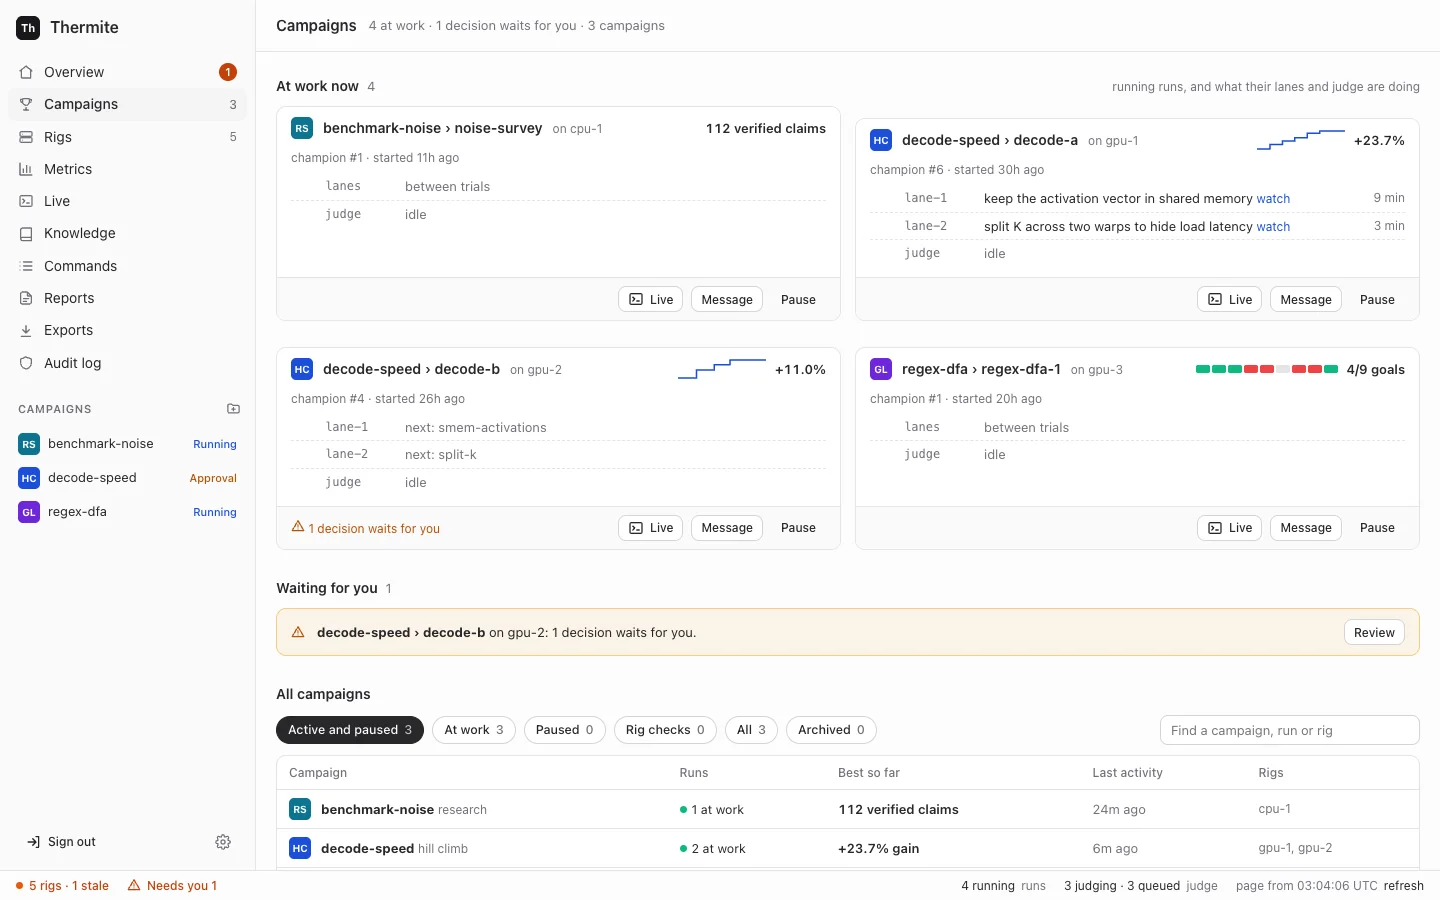
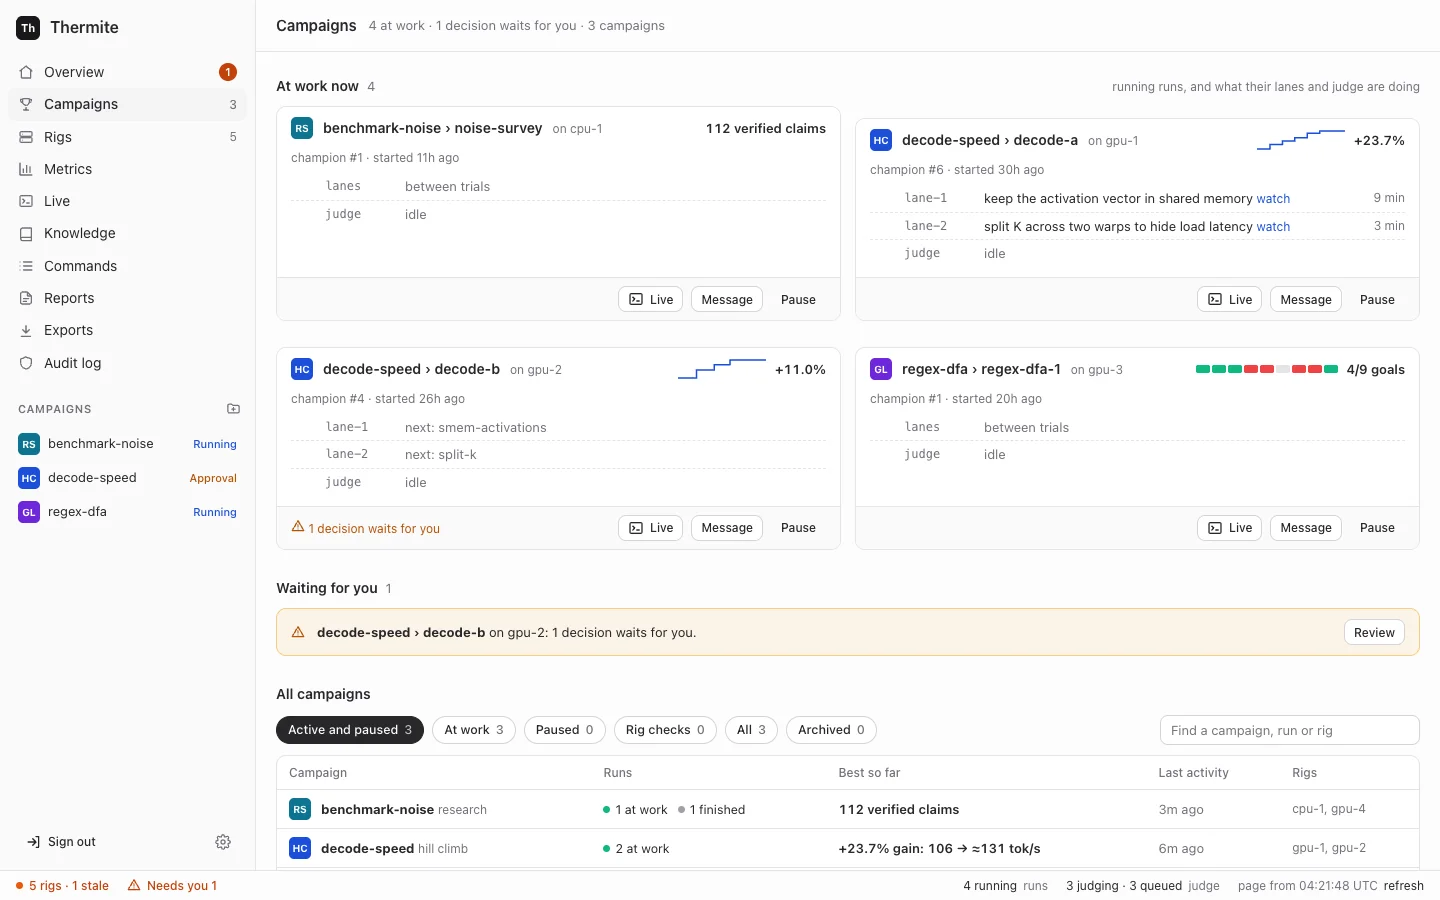
Docs: the dashboard screenshots taken again from the demo
The run page now has the champion card (goal 142) and one Tokens card;
its alt text says so. The other screenshots changed only in their
header cards or not at all.

diff --git a/README.md b/README.md
@@ -16,7 +16,7 @@ Thermite is open-source **autoresearch**: AI agents that run experiments in a lo
 
 > **Status:** work is toward v0.1.0, the first public release. The judge, control, agents and supervision are built and pass their acceptance tests. See the [roadmap](https://usethermite.com/project/roadmap/) and, for every detail, the [release plan](docs/plan/release-v0.1.0.md).
 
-![The dashboard's page for one run: its model use, cost and tokens at the top, where the run started, the champion's gains over time, what each lane works on now, and the run's champion and promotion rule](docs/_site/src/assets/screenshots/run.webp)
+![The dashboard's page for one run: its champion's value, its cost and its tokens at the top, where the run started, the champion's gains over time, what each lane works on now, and the run's champion and promotion rule](docs/_site/src/assets/screenshots/run.webp)
 
 ## The idea
 
